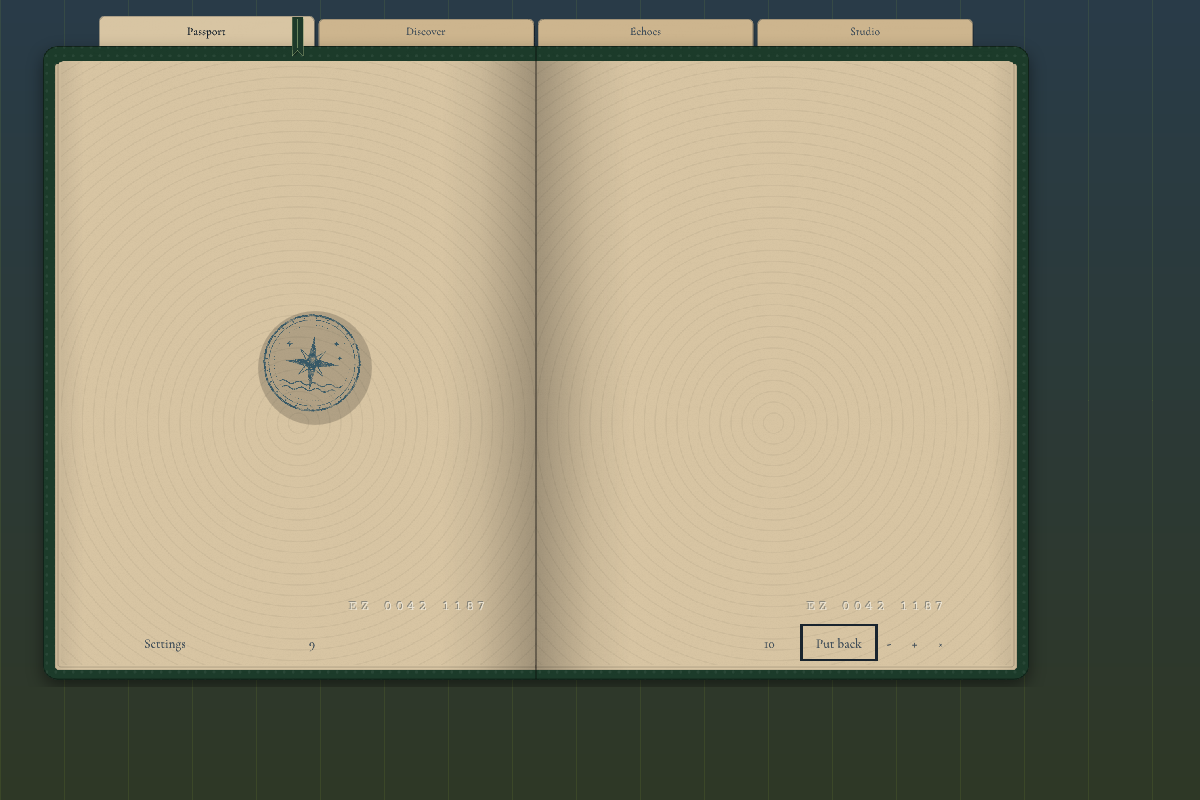
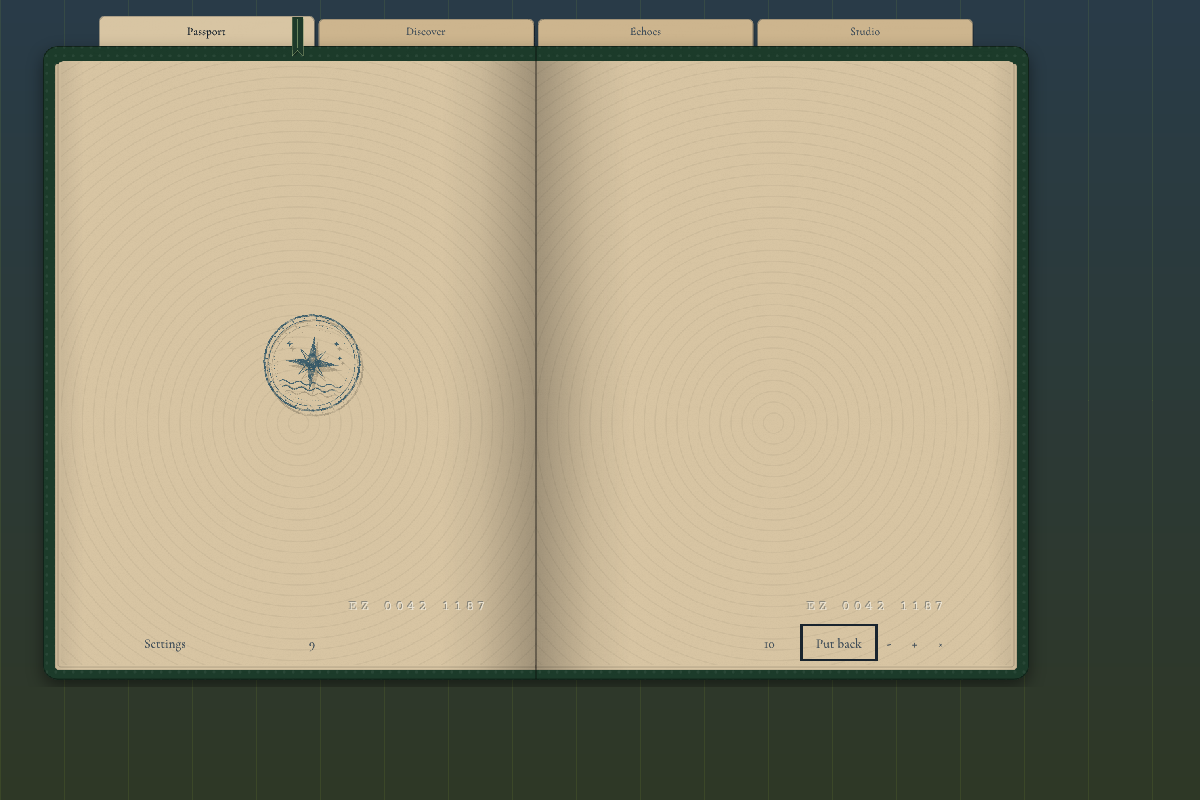
fix(ui): keep stamp knobs on the page, shape the carried shadow, and jump to a page

Changed region(s): [[0.2158, 0.375, 0.3083, 0.5312]]

diff --git a/src/Wanderveil/UI/BookShell.cs b/src/Wanderveil/UI/BookShell.cs
@@ -79,6 +79,12 @@ internal sealed class BookShell(IBookAssets assets, PassportPreview profile, IRe
     private volatile bool escapeRequested;
 
     internal void RequestEscape() => escapeRequested = true;
+    // The page number being typed over: null when none, otherwise whether it is the right page's.
+    private bool? pageEntry;
+    private string pageText = "";
+    private bool focusPageEntry;
+    // Whether a page number is being typed (the book's own keys then wait).
+    internal bool EnteringPage => pageEntry != null;
     internal float PreferredWidth { get; private set; } = 1040;
     internal DiscoveryPreview? SelectedDiscovery => discover.SelectedDiscovery;
     internal StudioView Studio => studio;
@@ -230,8 +236,8 @@ internal sealed class BookShell(IBookAssets assets, PassportPreview profile, IRe
             {
                 DocumentPage(at, layout.LeftPage, false, true);
                 if (layout.IsSpread && at + 1 < PageCount) DocumentPage(at + 1, layout.RightPage, true, true);
-                Folio(at, false);
-                if (layout.IsSpread && at + 1 < PageCount) Folio(at + 1, true);
+                Folio(at, false, true);
+                if (layout.IsSpread && at + 1 < PageCount) Folio(at + 1, true, true);
                 return;
             }
             StaticSide(section, at, layout.IsSpread ? Side.Left : Side.Single, layout.LeftPage);
@@ -502,11 +508,65 @@ internal sealed class BookShell(IBookAssets assets, PassportPreview profile, IRe
             finally { ImGui.PopStyleVar(2); }
         }
 
-        void Folio(int index, bool right)
+        // A page number. On the passport's resting pages it is also a way to any page: click it, type a page
+        // (1 to 100), and press Enter. Escape or clicking away leaves it as it was.
+        void Folio(int index, bool right, bool live = false)
         {
             var label = (index + 1).ToString(System.Globalization.CultureInfo.InvariantCulture);
             var measured = UiTypography.Measure(label, TextRole.Caption, page, 80, false);
-            UiTypography.Draw(ImGui.GetWindowDrawList(), layout.Folio(right) - measured / 2, label, TextRole.Caption, page, 80, UiTheme.MutedInk, false);
+            var center = layout.Folio(right);
+            var jumps = live && Section == BookSection.Passport;
+            if (jumps && pageEntry == right) { PageEntry(center, measured); return; }
+            UiTypography.Draw(ImGui.GetWindowDrawList(), center - measured / 2, label, TextRole.Caption, page, 80, UiTheme.MutedInk, false);
+            if (!jumps) return;
+            var pad = new Vector2(8, 3) * page.Scale;
+            ImGui.SetCursorScreenPos(center - measured / 2 - pad);
+            if (ImGui.InvisibleButton("Page number " + (right ? "right" : "left"), measured + pad * 2))
+            {
+                pageEntry = right;
+                pageText = label;
+                focusPageEntry = true;
+            }
+            if (!ImGui.IsItemHovered()) return;
+            ImGui.SetMouseCursor(ImGuiMouseCursor.TextInput);
+            ImGui.SetTooltip($"Go to page (1 to {PageCount})");
+            BookSurface.Line(ImGui.GetWindowDrawList(), center + new Vector2(-measured.X / 2, measured.Y / 2), center + measured / 2, ImGui.GetColorU32(UiTheme.MutedInk with { W = 0.6f }), MathF.Max(1, page.Scale));
+        }
+
+        void PageEntry(Vector2 center, Vector2 measured)
+        {
+            var width = MathF.Max(measured.X, UiTypography.Measure("000", TextRole.Caption, page, 80, false).X) + 12 * page.Scale;
+            var list = ImGui.GetWindowDrawList();
+            ImGui.PushFont(UiTypography.ResolveFont("0123456789", TextRole.Caption, page));
+            ImGui.SetWindowFontScale(UiTypography.Size(TextRole.Caption, page) / ImGui.GetFontSize());
+            ImGui.PushStyleVar(ImGuiStyleVar.FramePadding, new Vector2(4, 1) * page.Scale);
+            ImGui.PushStyleVar(ImGuiStyleVar.FrameBorderSize, 0f);
+            ImGui.PushStyleColor(ImGuiCol.FrameBg, UiTheme.PaperInset with { W = 0.55f });
+            ImGui.PushStyleColor(ImGuiCol.Text, UiTheme.Ink);
+            ImGui.PushStyleColor(ImGuiCol.TextSelectedBg, UiTheme.Gold with { W = 0.45f });
+            try
+            {
+                ImGui.SetCursorScreenPos(center - new Vector2(width / 2, ImGui.GetFrameHeight() / 2));
+                ImGui.SetNextItemWidth(width);
+                if (focusPageEntry) { ImGui.SetKeyboardFocusHere(); focusPageEntry = false; }
+                var entered = ImGui.InputText("##Go to page", ref pageText, 4, ImGuiInputTextFlags.CharsDecimal | ImGuiInputTextFlags.EnterReturnsTrue | ImGuiInputTextFlags.AutoSelectAll);
+                BookSurface.Line(list, new Vector2(ImGui.GetItemRectMin().X, ImGui.GetItemRectMax().Y), ImGui.GetItemRectMax(), ImGui.GetColorU32(UiTheme.Ink), MathF.Max(1, page.Scale));
+                if (entered)
+                {
+                    pageEntry = null;
+                    if (int.TryParse(pageText, System.Globalization.NumberStyles.None, System.Globalization.CultureInfo.InvariantCulture, out var number))
+                        GoToPage(number, layout.IsSpread);
+                }
+                // Leaving it (Escape, Tab, or a click elsewhere) closes it; so does a click while it never took focus.
+                else if (ImGui.IsItemDeactivated() || (!ImGui.IsItemActive() && ImGui.IsMouseClicked(ImGuiMouseButton.Left))) pageEntry = null;
+            }
+            finally
+            {
+                ImGui.PopStyleColor(3);
+                ImGui.PopStyleVar(2);
+                ImGui.SetWindowFontScale(1f);
+                ImGui.PopFont();
+            }
         }
 
         void Page(string id, UiRect region, Action content)
@@ -550,6 +610,7 @@ internal sealed class BookShell(IBookAssets assets, PassportPreview profile, IRe
         if (turn.Active) { turn.Finish(); VisiblePage = turn.Target; }
         desk.Cancel();
         desk.CloseInfo();
+        pageEntry = null;
         var distance = (int)to - (int)Section;
         riffle.Start(Math.Sign(distance), BookShellRiffle.LeavesFor(distance), Section, VisiblePage, ReducedMotion);
         Section = to;
@@ -562,6 +623,14 @@ internal sealed class BookShell(IBookAssets assets, PassportPreview profile, IRe
         Navigate(BookSection.Passport);
         ShowPage(fixedPages.Count + collection.LastSheet + 1, spread);
         desk.PickUp(stamp);
+    }
+
+    // Opens a printed page number (1 to the last page; anything outside is clamped).
+    internal void GoToPage(int number, bool spread)
+    {
+        if (Section != BookSection.Passport) return;
+        if (turn.Active) { turn.Finish(); VisiblePage = turn.Target; }
+        ShowPage(Math.Clamp(number, 1, PageCount) - 1, spread);
     }
 
     // Shows a passport page at once (its spread, when the book shows two pages).
@@ -660,6 +729,7 @@ internal sealed class BookShell(IBookAssets assets, PassportPreview profile, IRe
         riffle.Reset();
         desk.Cancel();
         desk.CloseInfo();
+        pageEntry = null;
         ribbonExtension = 0f;
         pressing = dragging = false;
         motion.Summon();

diff --git a/src/Wanderveil/UI/BookShellStamps.cs b/src/Wanderveil/UI/BookShellStamps.cs
@@ -90,7 +90,7 @@ internal sealed class BookShellStamps(StampCollection collection, IBookAssets as
             ImGui.PushID(entry.Stamp.Id);
             try
             {
-                if (Arrange) { Knob(entry, center, diameter, context); Remove(entry, center, diameter, context); }
+                if (Arrange) { Knob(entry, center, diameter, area, context); Remove(entry, center, diameter, area, context); }
                 ImGui.SetCursorScreenPos(bounds.Position);
                 ImGui.InvisibleButton("Stamp", bounds.Size);
                 if (ImGui.IsItemHovered()) ImGui.SetMouseCursor(Arrange ? ImGuiMouseCursor.ResizeAll : ImGuiMouseCursor.Hand);
@@ -112,13 +112,13 @@ internal sealed class BookShellStamps(StampCollection collection, IBookAssets as
     }
 
     // The round knob above a stamp in Arrange mode: drag it around the stamp to turn the stamp.
-    private void Knob(PlacedStamp entry, Vector2 center, float diameter, UiContext context)
+    private void Knob(PlacedStamp entry, Vector2 center, float diameter, UiRect area, UiContext context)
     {
         var rotation = turning is { } held && held.Stamp == entry.Stamp ? held.Rotation : entry.Placement.Rotation;
         var (sin, cos) = MathF.SinCos(rotation);
         var reach = diameter * 0.62f;
-        var knob = center + new Vector2(sin * reach, -cos * reach);
         var radius = MathF.Max(5f, diameter * 0.06f);
+        var knob = Inside(center + new Vector2(sin * reach, -cos * reach), radius, area);
         var list = ImGui.GetWindowDrawList();
         list.AddLine(center + new Vector2(sin, -cos) * diameter * 0.5f, knob, ImGui.GetColorU32(UiTheme.MutedInk with { W = 0.5f }), MathF.Max(1f, context.Scale));
         list.AddCircleFilled(knob, radius, ImGui.GetColorU32(UiTheme.Paper));
@@ -139,12 +139,12 @@ internal sealed class BookShellStamps(StampCollection collection, IBookAssets as
     }
 
     // The × beside a stamp in Arrange mode, a quarter turn round from its knob so the two never meet.
-    private void Remove(PlacedStamp entry, Vector2 center, float diameter, UiContext context)
+    private void Remove(PlacedStamp entry, Vector2 center, float diameter, UiRect area, UiContext context)
     {
         var rotation = turning is { } held && held.Stamp == entry.Stamp ? held.Rotation : entry.Placement.Rotation;
         var (sin, cos) = MathF.SinCos(rotation + MathF.PI / 2);
-        var mark = center + new Vector2(sin, -cos) * diameter * 0.62f;
         var radius = MathF.Max(5f, diameter * 0.06f);
+        var mark = Inside(center + new Vector2(sin, -cos) * diameter * 0.62f, radius, area);
         var list = ImGui.GetWindowDrawList();
         ImGui.SetCursorScreenPos(mark - new Vector2(radius * 1.6f));
         ImGui.InvisibleButton("Remove", new Vector2(radius * 3.2f));
@@ -162,6 +162,14 @@ internal sealed class BookShellStamps(StampCollection collection, IBookAssets as
             ImGui.SetTooltip("Take this stamp off the page. It waits to be placed again.");
         }
         if (ImGui.IsItemClicked()) collection.Unplace(entry.Stamp);
+    }
+
+    // A knob or × whose stamp sits by the page edge is kept on the page; past it, its button would make the
+    // page scroll.
+    private static Vector2 Inside(Vector2 point, float radius, UiRect area)
+    {
+        var margin = new Vector2(radius * 1.6f + 1f);
+        return Vector2.Clamp(point, area.Position + margin, Vector2.Max(area.Position + margin, area.Max - margin));
     }
 
     // After the pages are drawn: moves, turns, and puts down a carried stamp. Returns -1 or 1 when resting at
@@ -193,7 +201,8 @@ internal sealed class BookShellStamps(StampCollection collection, IBookAssets as
         {
             if (ImGui.BeginChild("Carried stamp", window.Size, false, ImGuiWindowFlags.NoInputs | ImGuiWindowFlags.NoBackground | ImGuiWindowFlags.NoScrollbar | ImGuiWindowFlags.NoSavedSettings))
             {
-                ImGui.GetWindowDrawList().AddCircleFilled(mouse + new Vector2(3, 5) * context.Scale, diameter * 0.46f, ImGui.GetColorU32(new Vector4(0, 0, 0, 0.18f)), 48);
+                // The shadow is the stamp's own shape, so it lines up with art that is not centred in its image.
+                StampArt.Issued(new UiRect(mouse + new Vector2(3, 5) * context.Scale - new Vector2(diameter / 2), new Vector2(diameter)), carry.Stamp, assets, context, carry.Rotation, tint: new Vector4(0.1f, 0.07f, 0.03f, 0.22f));
                 StampArt.Issued(new UiRect(mouse - new Vector2(diameter / 2), new Vector2(diameter)), carry.Stamp, assets, context, carry.Rotation, 0.92f);
             }
         }

diff --git a/tests/Wanderveil.UiChecks/CollectChecks.cs b/tests/Wanderveil.UiChecks/CollectChecks.cs
@@ -23,6 +23,8 @@ internal static class CollectChecks
         Arranging(check, artifacts);
         Limit(check);
         Escape(check);
+        Edges(check);
+        foreach (var (name, room) in new[] { ("wide", new Vector2(1200, 800)), ("narrow", new Vector2(452, 760)) }) Jump(check, name, room);
         Large(check);
         Unsaved(check);
     }
@@ -257,6 +259,54 @@ internal static class CollectChecks
         check(book.Shell.VisiblePage == BookShell.TotalPages - 2, $"Turning stops at page {book.Shell.VisiblePage + 1}, not at the last spread.");
         check(book.Shell.PageOverflow == 0 && book.Shell.Stamps.Placed.Count == 0, "Blank stamp pages overflow or create placements.");
         Console.WriteLine("PASS collect-limit");
+    }
+
+    // A stamp turned round and pushed to any page edge keeps its knob and × on the page in Arrange mode, so
+    // the page never grows a scrollbar.
+    private static void Edges(Action<bool, string> check)
+    {
+        var stamps = Seeded(4);
+        var corners = new[] { (0f, 0f, 0f), (1f, 1f, MathF.PI), (1f, 0f, MathF.PI / 2), (0f, 1f, -MathF.PI / 2) };
+        for (var index = 0; index < corners.Length; index++) stamps.Place(stamps.Stamps[index], new StampPlacement(index % 2, corners[index].Item1, corners[index].Item2, corners[index].Item3));
+        foreach (var room in new[] { new Vector2(1200, 800), new Vector2(452, 760) })
+        {
+            using var book = new Book(room, stamps);
+            book.Open();
+            book.Key(ImGuiKey.End);
+            book.Click(book.StampControl());
+            book.Frames(3);
+            check(book.Shell.Desk.Arrange && book.Shell.PageOverflow == 0 && book.Shell.PageOverflowX == 0, $"A stamp at the page edge makes its page scroll in Arrange mode at {room.X:0} px.");
+        }
+        Console.WriteLine("PASS collect-edges");
+    }
+
+    // Clicking a page number lets you type any page (clamped to 1-100) and Enter goes there; Escape leaves it.
+    private static void Jump(Action<bool, string> check, string name, Vector2 room)
+    {
+        using var book = new Book(room, new StampCollection(() => Issued));
+        var shell = book.Shell;
+        book.Open();
+        void Go(string typed, bool enter = true)
+        {
+            book.Click(book.Layout.Folio(false));
+            // Keyboard focus reaches the field a couple of frames after it appears.
+            book.Frames(2);
+            check(shell.EnteringPage && ImGui.GetIO().WantTextInput, name + ": clicking a page number does not open it for typing.");
+            ImGui.GetIO().AddInputCharacters(typed);
+            book.Frames(2);
+            book.Key(enter ? ImGuiKey.Enter : ImGuiKey.Escape);
+            check(!shell.EnteringPage && shell.Phase == BookPhase.Open, name + ": leaving the page number does not close it, or closes the book.");
+        }
+        var step = book.Layout.IsSpread ? 2 : 1;
+        Go("57");
+        check(shell.VisiblePage == 56 - 56 % step, name + $": typing 57 opens page {shell.VisiblePage + 1}.");
+        Go("250");
+        check(shell.VisiblePage == 99 - 99 % step, name + $": a page past the last opens page {shell.VisiblePage + 1}, not the last.");
+        Go("0");
+        check(shell.VisiblePage == 0, name + $": page 0 opens page {shell.VisiblePage + 1}, not the first.");
+        Go("12", enter: false);
+        check(shell.VisiblePage == 0, name + ": Escape in the page number still jumps.");
+        Console.WriteLine("PASS collect-jump-" + name);
     }
 
     // In game the plugin takes Escape from the game and hands it over; the book then ignores ImGui's Escape,

diff --git a/src/Wanderveil/Features/Stamps/StampArt.cs b/src/Wanderveil/Features/Stamps/StampArt.cs
@@ -1,5 +1,6 @@
 using System;
 using System.Globalization;
+using System.Numerics;
 using Dalamud.Bindings.ImGui;
 using Wanderveil.UI.Components;
 using Wanderveil.UI.Primitives;
@@ -15,8 +16,9 @@ internal static class StampArt
 
     internal static void Proof(UiRect bounds, StampDesign design, IBookAssets? assets, UiContext context) => Draw(bounds, design, assets, context, ProofInk, 0f);
 
-    internal static void Issued(UiRect bounds, StampInstance stamp, IBookAssets? assets, UiContext context, float rotation = 0f, float ink = 1f) =>
-        Draw(bounds, stamp.Design, assets, context, ink, rotation);
+    // tint, when given, replaces the stamp's colours (a shadow is the stamp in one dark tone).
+    internal static void Issued(UiRect bounds, StampInstance stamp, IBookAssets? assets, UiContext context, float rotation = 0f, float ink = 1f, Vector4? tint = null) =>
+        Draw(bounds, stamp.Design, assets, context, ink, rotation, tint);
 
     // A natural first turn for a stamp being placed, up to five degrees either way, the same every time for
     // that stamp (a stable hash, unlike string.GetHashCode). The owner can turn it however they like.
@@ -30,9 +32,9 @@ internal static class StampArt
     // The issue date as printed on a stamp's info page, in the offset it was collected in.
     internal static string Date(DateTimeOffset at) => at.ToString("dd MMM yyyy", CultureInfo.InvariantCulture).ToUpperInvariant();
 
-    private static void Draw(UiRect bounds, StampDesign design, IBookAssets? assets, UiContext context, float ink, float angle)
+    private static void Draw(UiRect bounds, StampDesign design, IBookAssets? assets, UiContext context, float ink, float angle, Vector4? tint = null)
     {
-        if (assets != null && BookSurface.Stamp(bounds, design.Artwork, assets, ink, angle)) return;
-        StampPreview.Draw(bounds, context, UiTheme.Action with { W = ink });
+        if (assets != null && BookSurface.Stamp(bounds, design.Artwork, assets, ink, angle, tint)) return;
+        StampPreview.Draw(bounds, context, tint ?? UiTheme.Action with { W = ink });
     }
 }

diff --git a/src/Wanderveil/UI/Components/BookSurface.cs b/src/Wanderveil/UI/Components/BookSurface.cs
@@ -210,7 +210,7 @@ internal static class BookSurface
 
     // Draws one impression from the atlas, turned by angle (radians) about its centre; false when it has
     // no such impression or the art is missing.
-    internal static bool Stamp(UiRect bounds, int index, IBookAssets assets, float alpha = 1f, float angle = 0f)
+    internal static bool Stamp(UiRect bounds, int index, IBookAssets assets, float alpha = 1f, float angle = 0f, Vector4? tint = null)
     {
         if ((uint)index > 2 || !assets.TryGet(BookAsset.Stamps, out var image, MathF.Min(bounds.Size.X, bounds.Size.Y) * 3.2f))
             return false;
@@ -218,7 +218,7 @@ internal static class BookSurface
         var region = index == 1 ? new Vector2(0.34f, 0.65f) : new Vector2(index / 3f, (index + 1) / 3f);
         var aspect = (region.Y - region.X) * image.Width / image.Height;
         var size = new Vector2(MathF.Min(bounds.Size.X, bounds.Size.Y * aspect), MathF.Min(bounds.Size.Y, bounds.Size.X / aspect));
-        var color = ImGui.GetColorU32(new Vector4(1, 1, 1, alpha));
+        var color = ImGui.GetColorU32(tint ?? new Vector4(1, 1, 1, alpha));
         if (angle != 0f)
         {
             // A turned impression shrinks slightly so its corners stay inside the place.

diff --git a/docs/passport-runtime.md b/docs/passport-runtime.md
@@ -53,13 +53,13 @@ Settings are pages of the book. The printed Settings mark riffles forward to the
 
 The first product loop runs in the book: open Discover, open **The scenic route** postcard, and choose **Collect demo stamp** beneath it. The stamp is issued at once: the postcard's faint proof of the design becomes the inked stamp (*Your stamp*, *Collected 19 OCT 2026 / Local demo*), its card in the list says *Collected*, and a line beneath says whether it is saved. Keyboard focus moves to **Place it in your passport »**.
 
-**Stamp pages** follow the identity pages. They are blank paper with only their page numbers and the passport number, *EZ 0042 1187*, engraved in pale typewriter letters at the lower right as on the printed design (a stamp pressed over it covers it): no fixed places, no printed captions, nothing else the owner did not put there. The passport has 100 pages for now (pages 5 to 100 are stamp pages; turning stops at the last spread), and End jumps to the last page with a stamp. Only pages with stamps are saved (see below). The identity page shows the same passport number.
+**Stamp pages** follow the identity pages. They are blank paper with only their page numbers and the passport number, *EZ 0042 1187*, engraved in pale typewriter letters at the lower right as on the printed design (a stamp pressed over it covers it): no fixed places, no printed captions, nothing else the owner did not put there. The passport has 100 pages for now (pages 5 to 100 are stamp pages; turning stops at the last spread), and End jumps to the last page with a stamp. To go to any page, click a page number at the foot of the book, type the page, and press Enter; numbers outside 1 to 100 go to the first or last page, and Escape or clicking away leaves it. This works with a stamp in hand too. Only pages with stamps are saved (see below). The identity page shows the same passport number.
 
-**Placing.** The link opens the first empty page after your last stamp with the new stamp in hand: it follows the mouse, faintly, with a shadow. Click anywhere on a stamp page to press it there. While it is in hand the mouse wheel turns it, Page Up/Down turn pages, and resting at the book's outer edge turns the page there, so you can carry it to any page. Escape, a right click, or **Put back** in the footer returns it. In game the plugin takes Escape from the game's key state whenever the book has a use for it (a stamp in hand, stamp info open, or the book focused), so the game's system menu does not open as well. A stamp not placed yet waits: the footer then offers **Place stamp** (with a count when several wait), which picks the next one up the same way. Once placed, the postcard's link reads **See it in your passport »** and opens its page.
+**Placing.** The link opens the first empty page after your last stamp with the new stamp in hand: it follows the mouse, faintly, with a shadow in its own shape. Click anywhere on a stamp page to press it there. While it is in hand the mouse wheel turns it, Page Up/Down turn pages, and resting at the book's outer edge turns the page there, so you can carry it to any page. Escape, a right click, or **Put back** in the footer returns it. In game the plugin takes Escape from the game's key state whenever the book has a use for it (a stamp in hand, stamp info open, or the book focused), so the game's system menu does not open as well. A stamp not placed yet waits: the footer then offers **Place stamp** (with a count when several wait), which picks the next one up the same way. Once placed, the postcard's link reads **See it in your passport »** and opens its page.
 
 **Stamp info.** Click a stamp to open its info page over the opposite page (over its own page when only one page shows), and click again, **Close**, or Escape to close it. It shows the stamp, its name, when it was collected and on which page, what it came from (*Postcard: The scenic route*), and who designed it (*Ari Vale / Demo creator*), with a note that it is a local demo stamp, not an official achievement. Turning the page or changing section closes it.
 
-**Arrange mode.** The footer's **Arrange** turns it on (**Done** turns it off), so stamps never shift by accident. While arranging, drag a stamp anywhere on the open pages, including across the spread; or click it to pick it up and carry it as above. Each stamp shows a round knob: drag it around the stamp to turn the stamp. A quarter turn round from the knob, a small × takes the stamp off its page: it is never deleted (an earned stamp stays in the passport) and waits, offered by **Place stamp**, to be placed again. A moved stamp lands on top of the others. Outside Arrange mode, a drag on a stamp does nothing and dragging the paper moves the book as before.
+**Arrange mode.** The footer's **Arrange** turns it on (**Done** turns it off), so stamps never shift by accident. While arranging, drag a stamp anywhere on the open pages, including across the spread; or click it to pick it up and carry it as above. Each stamp shows a round knob: drag it around the stamp to turn the stamp. A quarter turn round from the knob, a small × takes the stamp off its page: it is never deleted (an earned stamp stays in the passport) and waits, offered by **Place stamp**, to be placed again. Next to a page edge, the knob and × stay on the page rather than making it scroll. A moved stamp lands on top of the others. Outside Arrange mode, a drag on a stamp does nothing and dragging the paper moves the book as before.
 
 Duplicate policy: a passport holds at most one stamp per discovery. Once collected, the postcard offers no Collect action, and collecting again (even after its design is revised) returns the stamp already held unchanged. **Where the lanterns wait** is a stamp spot: its stamp is collected at the place itself, which needs location awareness Wanderveil does not have, so its Collect action is printed but inert with that reason.
 

diff --git a/tests/README.md b/tests/README.md
@@ -19,7 +19,7 @@ All checks pass locally: 4252 in Debug and 4378 in Release when writing previews
 - Discover card/detail geometry across the same width/scale matrix, including large-text stacking.
 - Native keyboard card selection and focused Back activation, mouse release/cancel, and style restoration.
 - Wide/narrow/enlarged/long-content discovery previews, empty list and missing-image details, and scrolling to the end of long details without horizontal overflow.
-- Collecting and placing: one stamp per discovery even after its design is revised, separate design and instance identifiers, demo provenance, source and designer, issue date, invalid discoveries or designs refused; new stamps waiting unplaced, layering by placement, normalized turns, and invalid placements refused. In the real shell at wide and narrow sizes: collecting from the postcard, its link opening the first stamp page with the stamp in hand, a click pressing it where clicked without turning the page, its info page opposite (or over its page) and Escape closing it, and the link of a placed stamp opening its page. Arrange mode: no moving without it, Place stamp picking up the waiting stamp on the page after the last, the wheel turning a carried stamp, a drag across the spread, a knob turning a stamp, carrying across Page Down and by resting at the edge, Escape putting it back, and the × taking a stamp off its page to wait and be placed again. Turning stops at page 100 and blank pages store nothing; Escape handed over by the plugin (with ImGui's Escape ignored) puts a carried stamp back, then closes the passport; 500 stamps over all 96 stamp pages with End and the same per-frame cost at both ends (printed). A failed save says so under the stamp and its **Try saving again** link retries.
+- Collecting and placing: one stamp per discovery even after its design is revised, separate design and instance identifiers, demo provenance, source and designer, issue date, invalid discoveries or designs refused; new stamps waiting unplaced, layering by placement, normalized turns, and invalid placements refused. In the real shell at wide and narrow sizes: collecting from the postcard, its link opening the first stamp page with the stamp in hand, a click pressing it where clicked without turning the page, its info page opposite (or over its page) and Escape closing it, and the link of a placed stamp opening its page. Arrange mode: no moving without it, Place stamp picking up the waiting stamp on the page after the last, the wheel turning a carried stamp, a drag across the spread, a knob turning a stamp, carrying across Page Down and by resting at the edge, Escape putting it back, and the × taking a stamp off its page to wait and be placed again; stamps turned round at all four page edges keep their knobs and × on the page, so no page scrolls (this failed before the fix). Page numbers: typing 57, 250, or 0 and Enter opens page 57, 100, or 1, and Escape leaves the page, at wide and narrow sizes. Turning stops at page 100 and blank pages store nothing; Escape handed over by the plugin (with ImGui's Escape ignored) puts a carried stamp back, then closes the passport; 500 stamps over all 96 stamp pages with End and the same per-frame cost at both ends (printed). A failed save says so under the stamp and its **Try saving again** link retries.
 - Stamp storage, each case in its own temporary directory: round trip with date offset, design, and placements; a lone stamp on page 21 written as one placement; a version 1 file migrating to unplaced stamps and saved as version 2 with the old file as backup; identifiers continuing after reload, no duplicate after reload, the previous save kept as backup; corrupt, truncated, empty, and foreign files recovered from the backup with the damaged file kept byte for byte; both files unreadable; a newer version and a locked file left untouched with saving off; complete and incomplete interrupted saves; rule-breaking files (including placements off the page, past the last page, for unknown stamps, or twice for one stamp) rejected whole; separate profiles and unsafe profile names; a failed save reported and retried; no saving after disposal; and 500 stamps (size and save/load time are printed).
 - Disabled actions, long-button wrapping, short labels at fractional font sizes, and opening a scrolled card then restoring browse position through Back.
 - Stationary book content bounds for spreads/page halves and tall measured content; invalid geometry rejection.

diff --git a/docs/ui-components.md b/docs/ui-components.md
@@ -50,6 +50,6 @@ Discover presents type, title, creator, imagined location, teaser, stamp motif/n
 
 ## Automated evidence
 
-Run the [native UI checks](../tests/README.md). All checks pass (4428 in Debug, 4554 in Release with previews). The check project compiles the same shell/component/Passport/Discover/Studio/Echoes sources and loads the installed ImGui native library. It verifies geometry across widths/scales/font sizes, rejects invalid geometry, checks selected text/button contrast pairs, exercises wrapping/cursor reservation, mouse release/cancel and keyboard card/Back activation, disabled collection, browse-scroll restoration, and style cleanup. Book checks cover material bounds, assets/fallbacks, font stack/fallback, long-page keyboard activation, complete borderless shell input/layout through viewport and size changes, and Gridania static composition/illustration/narrow-page behavior.
+Run the [native UI checks](../tests/README.md). All checks pass (4454 in Debug, 4580 in Release with previews). The check project compiles the same shell/component/Passport/Discover/Studio/Echoes sources and loads the installed ImGui native library. It verifies geometry across widths/scales/font sizes, rejects invalid geometry, checks selected text/button contrast pairs, exercises wrapping/cursor reservation, mouse release/cancel and keyboard card/Back activation, disabled collection, browse-scroll restoration, and style cleanup. Book checks cover material bounds, assets/fallbacks, font stack/fallback, long-page keyboard activation, complete borderless shell input/layout through viewport and size changes, and Gridania static composition/illustration/narrow-page behavior.
 
 Baseline software previews use ImGui's default font. Material previews add the bundled heading fonts and local Windows Segoe UI as a body-font surrogate; it is not redistributed. The CPU rasterizer supports asset RGBA and multi-page font atlases. These validate real component draw lists, not exact game fonts or GPU appearance. No test renderer/native library is included in the plugin package. The full design system, localization glyph coverage, animations, issued-stamp/passport controls, and broader navigation/overlay controls remain future work.
